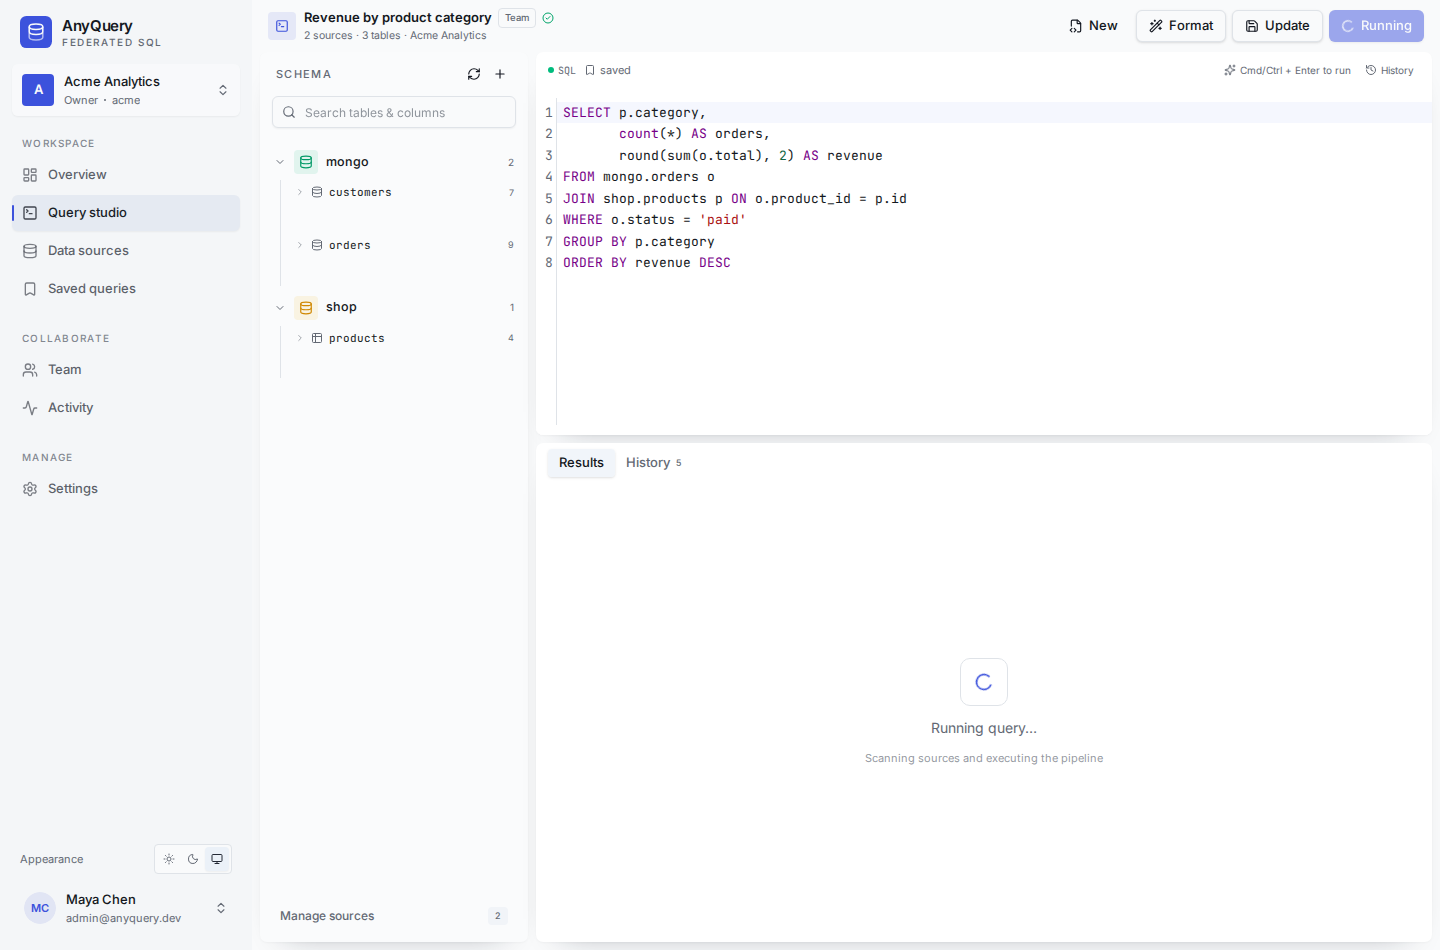
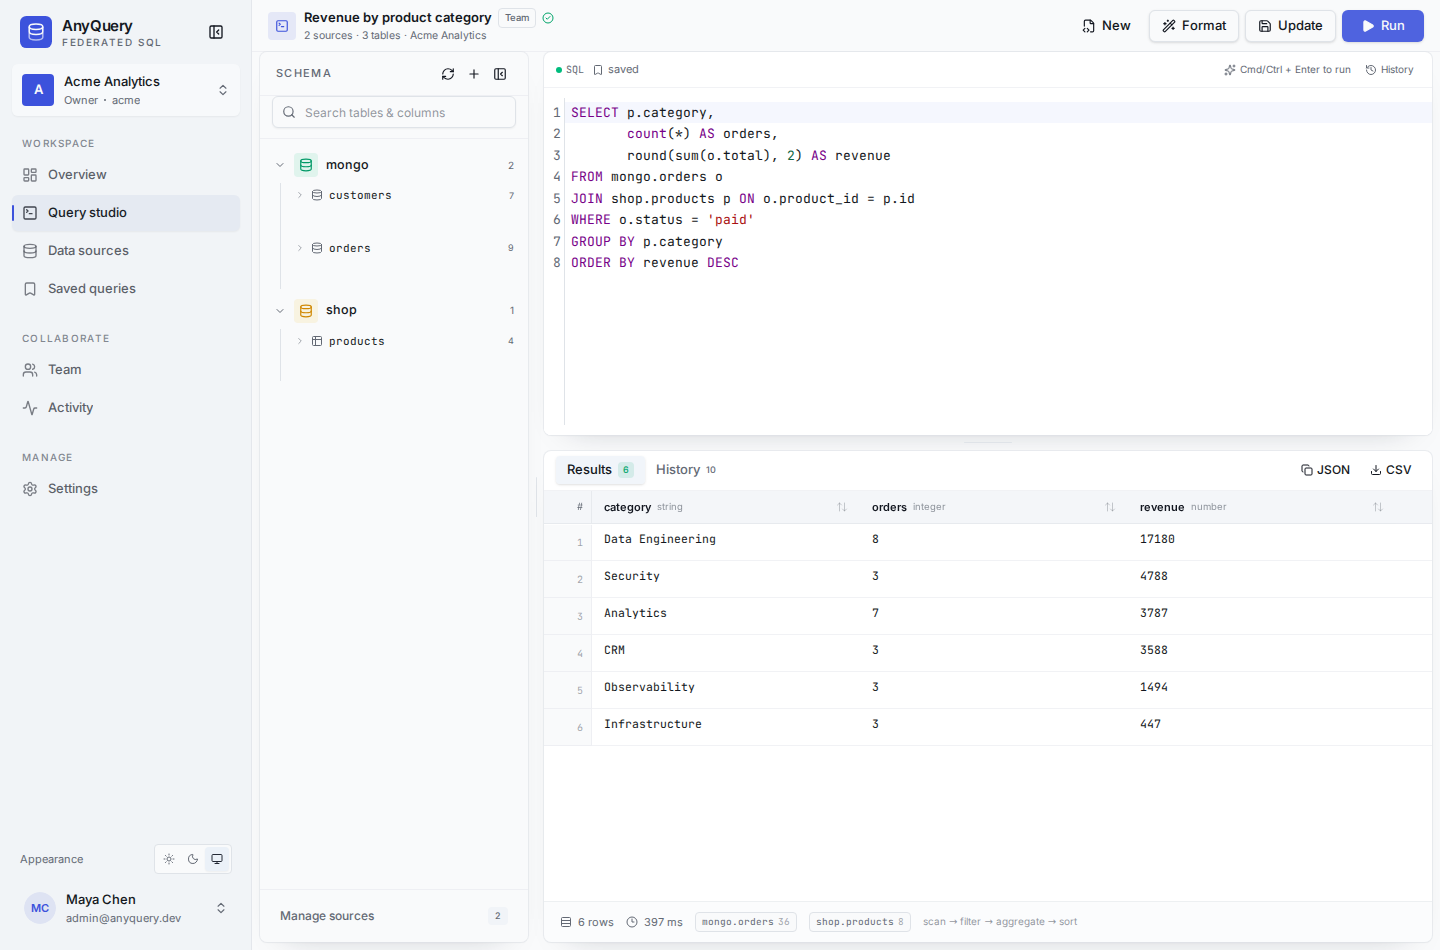
style: balance whitespace with soft structure
- Add subtle surface rings and sidebar hairline for definition without heavy borders
- Restore low-contrast list separators and panel headers for scanability
- Refine query studio dividers, table row guides and resize handles
- Tighten saved-query capacity UI into the header badge and limit warning
- Let overview columns size to content instead of stretching empty space
- Refresh README screenshots

diff --git a/frontend/src/components/query/ResultsTable.tsx b/frontend/src/components/query/ResultsTable.tsx
@@ -105,11 +105,11 @@ export function ResultsTable({
           <table className="w-full border-separate border-spacing-0 text-left text-[12px]">
             <thead className="sticky top-0 z-10">
               <tr>
-                <th className="sticky left-0 z-20 w-12 bg-muted/90 px-2 py-2 text-right font-mono text-[10px] font-normal text-muted-foreground backdrop-blur">#</th>
+                <th className="sticky left-0 z-20 w-12 border-r border-border/50 border-b border-border/60 bg-muted/80 px-2 py-2 text-right font-mono text-[10px] font-normal text-muted-foreground backdrop-blur">#</th>
                 {result.columns.map((col) => (
                   <th
                     key={col.name}
-                    className="min-w-[160px] cursor-pointer bg-muted/90 px-3 py-2 font-normal whitespace-nowrap backdrop-blur select-none hover:bg-muted"
+                    className="min-w-[160px] cursor-pointer border-b border-border/60 bg-muted/80 px-3 py-2 font-normal whitespace-nowrap backdrop-blur select-none hover:bg-muted"
                     onClick={() =>
                       setSort((s) =>
                         s?.column === col.name ? (s.dir === "asc" ? { column: col.name, dir: "desc" } : null) : { column: col.name, dir: "asc" },
@@ -127,21 +127,21 @@ export function ResultsTable({
                     </div>
                   </th>
                 ))}
-                <th className="w-9 bg-muted/90" />
+                <th className="w-9 border-b border-border/60 bg-muted/80" />
               </tr>
             </thead>
             <tbody>
               {rows.map((row, i) => (
-                <tr key={i} className="group transition-colors even:bg-muted/20 hover:bg-primary/[0.045]">
-                  <td className="sticky left-0 z-[5] bg-background px-2 py-1.5 text-right font-mono text-[10px] text-muted-foreground/60 group-even:bg-muted/20 group-hover:bg-[color-mix(in_oklch,var(--background),var(--primary)_4%)]">
+                <tr key={i} className="group transition-colors hover:bg-primary/[0.035]">
+                  <td className="sticky left-0 z-[5] border-r border-border/40 border-b border-border/45 bg-background px-2 py-1.5 text-right font-mono text-[10px] text-muted-foreground/60 group-hover:bg-[color-mix(in_oklch,var(--background),var(--primary)_4%)]">
                     {current * PAGE_SIZE + i + 1}
                   </td>
                   {result.columns.map((col) => (
-                    <td key={col.name} className="max-w-[420px] truncate px-3 py-1.5 align-top">
+                    <td key={col.name} className="max-w-[420px] truncate border-b border-border/45 px-3 py-1.5 align-top">
                       <CellValue value={row[col.name]} type={col.type} />
                     </td>
                   ))}
-                  <td className="px-1 py-1.5">
+                  <td className="border-b border-border/45 px-1 py-1.5">
                     <button
                       className="grid size-6 place-items-center rounded text-muted-foreground/40 opacity-0 transition-opacity group-hover:opacity-100 hover:bg-accent hover:text-foreground"
                       onClick={() => void navigator.clipboard.writeText(JSON.stringify(row, null, 2)).then(() => toast.success("Row copied as JSON"))}
@@ -157,7 +157,7 @@ export function ResultsTable({
         )}
       </div>
 
-      <div className="flex flex-wrap items-center justify-between gap-2 bg-muted/25 px-4 py-2.5 text-[11px] text-muted-foreground">
+      <div className="flex flex-wrap items-center justify-between gap-2 border-t border-border/50 bg-muted/25 px-4 py-2.5 text-[11px] text-muted-foreground">
         <div className="flex flex-wrap items-center gap-3">
           <span className="inline-flex items-center gap-1.5"><Rows3 className="size-3" /> {formatNumber(result.rowCount)} rows</span>
           <span className="inline-flex items-center gap-1.5"><Clock3 className="size-3" /> {formatDuration(result.stats.durationMs)}</span>

diff --git a/frontend/src/pages/Overview.tsx b/frontend/src/pages/Overview.tsx
@@ -66,9 +66,9 @@ export function OverviewPage() {
           )}
         </div>
 
-        <div className="mt-8 grid gap-5 xl:grid-cols-[1.45fr_1fr]">
+        <div className="mt-8 grid items-start gap-5 xl:grid-cols-[1.45fr_1fr]">
           <section className="surface">
-            <div className="flex items-center justify-between px-5 pt-5 pb-2">
+            <div className="flex items-center justify-between border-b border-border/55 px-5 pt-5 pb-3">
               <div>
                 <h2 className="text-sm font-semibold">Recent query activity</h2>
                 <p className="mt-0.5 text-xs text-muted-foreground">The latest runs across this workspace</p>
@@ -80,11 +80,11 @@ export function OverviewPage() {
             ) : !(overview?.recentRuns ?? []).length ? (
               <EmptyState icon={Activity} title="No queries yet" description="Run your first federated query to see it here." className="border-0 bg-transparent py-12" action={<Button asChild size="sm"><Link to={`/w/${tenant.slug}/query`}>Open query studio</Link></Button>} />
             ) : (
-              <div className="space-y-0.5 p-1.5">
+              <div className="divide-y divide-border/45">
                 {(overview?.recentRuns ?? []).map((run) => {
                   const user = memberById.get(run.userId)
                   return (
-                    <Link key={run.id} to={`/w/${tenant.slug}/query`} className="flex items-center gap-3 px-5 py-3.5 transition-colors hover:bg-muted/35">
+                    <Link key={run.id} to={`/w/${tenant.slug}/query`} className="flex items-center gap-3 px-5 py-3 transition-colors hover:bg-muted/35">
                       <div className={cn("grid size-8 shrink-0 place-items-center rounded-lg", run.status === "success" ? "bg-success/10 text-success" : "bg-destructive/10 text-destructive")}>
                         {run.status === "success" ? <CheckCircle2 className="size-4" /> : <CircleAlert className="size-4" />}
                       </div>
@@ -111,7 +111,7 @@ export function OverviewPage() {
           </section>
 
           <section className="surface">
-            <div className="flex items-center justify-between px-5 pt-5 pb-2">
+            <div className="flex items-center justify-between border-b border-border/55 px-5 pt-5 pb-3">
               <div>
                 <h2 className="text-sm font-semibold">Source health</h2>
                 <p className="mt-0.5 text-xs text-muted-foreground">{readySources.length} of {sourceList.length} connected</p>
@@ -126,9 +126,9 @@ export function OverviewPage() {
                 <Button size="sm" className="mt-3" asChild><Link to={`/w/${tenant.slug}/sources`}><Database className="size-4" /> Connect a source</Link></Button>
               </div>
             ) : (
-              <div className="space-y-0.5 p-1.5">
+              <div className="divide-y divide-border/45">
                 {sourceList.slice(0, 5).map((ds) => (
-                  <div key={ds.id} className="flex items-center gap-3 px-5 py-3.5">
+                  <div key={ds.id} className="flex items-center gap-3 px-5 py-3">
                     <SourceIcon type={ds.type} size="sm" />
                     <div className="min-w-0 flex-1">
                       <div className="flex items-center gap-1.5">

diff --git a/frontend/src/pages/Query.tsx b/frontend/src/pages/Query.tsx
@@ -290,7 +290,7 @@ export function QueryPage() {
 
   return (
     <div className="flex h-full flex-col">
-      <header className="flex h-[52px] shrink-0 items-center gap-2 bg-background px-3 md:px-4">
+      <header className="flex h-[52px] shrink-0 items-center gap-2 border-b border-border/45 bg-background px-3 md:px-4">
         <div className="flex min-w-0 items-center gap-2">
           <div className="hidden size-7 place-items-center rounded-md bg-primary/10 text-primary sm:grid">
             <SquareTerminal className="size-3.5" />
@@ -346,14 +346,14 @@ export function QueryPage() {
               onDoubleClick={() => setSchemaWidth(268)}
               className="group -mx-1 hidden w-2 cursor-col-resize touch-none items-center justify-center lg:flex"
             >
-              <div className="h-10 w-px rounded-full bg-border/70 transition-colors group-hover:bg-primary/60" />
+              <div className="h-10 w-px rounded-full bg-border transition-colors group-hover:bg-primary/60" />
             </div>
           </>
         )}
 
         <div className="flex min-w-0 flex-1 flex-col gap-1">
           <div style={{ height: `${editorRatio * 100}%` }} className="flex min-h-[150px] flex-col overflow-hidden surface">
-            <div className="flex h-9 shrink-0 items-center justify-between px-3 text-[11px] text-muted-foreground">
+            <div className="flex h-9 shrink-0 items-center justify-between border-b border-border/45 px-3 text-[11px] text-muted-foreground">
               <div className="flex items-center gap-2">
                 <span className="inline-flex items-center gap-1 font-mono text-[10px]"><span className="size-1.5 rounded-full bg-emerald-500" /> SQL</span>
                 {currentSaved && <span className="hidden items-center gap-1 sm:inline-flex"><Bookmark className="size-3" /> saved</span>}
@@ -395,12 +395,12 @@ export function QueryPage() {
             onDoubleClick={() => setEditorRatio(0.43)}
             className="group -my-0.5 flex h-3 shrink-0 cursor-row-resize touch-none items-center justify-center"
           >
-            <div className="h-px w-12 rounded-full bg-border/80 transition-colors group-hover:bg-primary/60" />
+            <div className="h-px w-12 rounded-full bg-border transition-colors group-hover:bg-primary/60" />
           </div>
 
           <div className="flex min-h-0 flex-1 flex-col overflow-hidden surface">
             <Tabs value={tab} onValueChange={setTab} className="flex min-h-0 flex-1 flex-col">
-              <div className="flex h-10 shrink-0 items-center justify-between px-3">
+              <div className="flex h-10 shrink-0 items-center justify-between border-b border-border/45 px-3">
                 <TabsList className="h-7 bg-transparent p-0">
                   <TabsTrigger value="results" className="gap-1.5 px-2.5 data-[state=active]:bg-accent/70">
                     Results

diff --git a/frontend/src/pages/DataSources.tsx b/frontend/src/pages/DataSources.tsx
@@ -147,15 +147,15 @@ export function DataSourcesPage() {
         />
 
         <div className="mt-5 grid gap-3 sm:grid-cols-3">
-          <div className="rounded-lg border bg-card px-4 py-3">
+          <div className="surface px-4 py-3">
             <div className="text-[11px] text-muted-foreground">Connected</div>
             <div className="mt-1 text-lg font-semibold">{ready} <span className="text-xs font-normal text-muted-foreground">/ {sources.length}</span></div>
           </div>
-          <div className="rounded-lg border bg-card px-4 py-3">
+          <div className="surface px-4 py-3">
             <div className="text-[11px] text-muted-foreground">Tables available</div>
             <div className="mt-1 text-lg font-semibold">{sources.reduce((n, s) => n + s.tables.length, 0)}</div>
           </div>
-          <div className="rounded-lg border bg-card px-4 py-3">
+          <div className="surface px-4 py-3">
             <div className="text-[11px] text-muted-foreground">Connector types</div>
             <div className="mt-1 text-lg font-semibold">{types?.types.length ?? "20+"} <span className="text-xs font-normal text-muted-foreground">built in</span></div>
           </div>
@@ -391,7 +391,7 @@ function DataSourceDialog({
               </div>
               <div className="grid max-h-[52vh] gap-2 overflow-y-auto pr-1 sm:grid-cols-2">
                 {filtered.map((t) => (
-                  <button key={t.type} onClick={() => chooseType(t)} className="group flex items-start gap-3 rounded-lg border bg-card p-3 text-left transition-all hover:border-primary/30 hover:shadow-sm">
+                  <button key={t.type} onClick={() => chooseType(t)} className="group flex items-start gap-3 rounded-lg border border-border/60 bg-card p-3 text-left transition-all hover:border-primary/30 hover:shadow-sm">
                     <SourceIcon type={t.type} />
                     <div className="min-w-0 flex-1">
                       <div className="flex items-center gap-1.5">
@@ -540,7 +540,7 @@ function SchemaDialog({ source, open, onOpenChange }: { source: DataSource | nul
           {source?.lastSyncedAt && <p className="mb-3 text-[11px] text-muted-foreground">Last synced {formatDateTime(source.lastSyncedAt)}</p>}
           <div className="space-y-2">
             {(source?.tables ?? []).map((table) => (
-              <details key={table.name} className="group rounded-lg border bg-card">
+              <details key={table.name} className="group rounded-lg border border-border/60 bg-card">
                 <summary className="flex cursor-pointer items-center gap-2 px-3 py-2 text-[12.5px] font-medium marker:hidden">
                   <Table2 className="size-3.5 text-muted-foreground" />
                   <span className="font-mono">{table.name}</span>

diff --git a/frontend/src/pages/SavedQueries.tsx b/frontend/src/pages/SavedQueries.tsx
@@ -73,18 +73,13 @@ export function SavedQueriesPage() {
           actions={<Button onClick={() => navigate(`/w/${tenant.slug}/query`)}><Plus className="size-4" /> New query</Button>}
         />
 
-        <div className="mt-5 flex flex-wrap items-center gap-3 rounded-lg bg-muted/25 px-3 py-2 text-[11px] text-muted-foreground">
-          <div className="h-1.5 w-40 overflow-hidden rounded-full bg-muted">
-            <div
-              className={atLimit ? "h-full rounded-full bg-warning transition-all" : "h-full rounded-full bg-primary transition-all"}
-              style={{ width: `${Math.min(100, (savedCount / savedLimit) * 100)}%` }}
-            />
+        {atLimit && (
+          <div className="mt-4 rounded-lg bg-warning/10 px-3 py-2 text-[11.5px] text-warning-foreground dark:text-warning">
+            Library full — {savedCount} of {savedLimit} slots used. Delete a saved query to create another.
           </div>
-          <span>{savedCount} of {savedLimit} query slots used</span>
-          {atLimit && <span className="text-warning-foreground dark:text-warning">Library full — delete a query to save a new one.</span>}
-        </div>
+        )}
 
-        <div className="mt-4 flex flex-col gap-3 sm:flex-row sm:items-center sm:justify-between">
+        <div className="mt-5 flex flex-col gap-3 sm:flex-row sm:items-center sm:justify-between">
           <div className="relative w-full sm:max-w-xs">
             <Search className="absolute top-1/2 left-3 size-3.5 -translate-y-1/2 text-muted-foreground" />
             <Input placeholder="Search saved queries…" value={query} onChange={(e) => setQuery(e.target.value)} className="pl-9" />

diff --git a/frontend/src/pages/Team.tsx b/frontend/src/pages/Team.tsx
@@ -111,12 +111,12 @@ export function TeamPage() {
             {isLoading ? (
               <div className="space-y-2 p-4">{Array.from({ length: 3 }).map((_, i) => <Skeleton key={i} className="h-14" />)}</div>
             ) : (
-              <div className="space-y-0.5 p-1.5">
+              <div className="divide-y divide-border/45">
                 {members.map((member) => {
                   const isSelf = member.user.id === me?.user.id
                   const canChange = canAdmin && (member.role !== "owner" || role === "owner")
                   return (
-                    <div key={member.user.id} className="flex items-center gap-3 px-5 py-3.5">
+                    <div key={member.user.id} className="flex items-center gap-3 px-5 py-3.5 transition-colors hover:bg-muted/30">
                       <Avatar className="size-9">
                         {member.user.avatarUrl && <AvatarImage src={member.user.avatarUrl} />}
                         <AvatarFallback>{initials(member.user.name, member.user.email)}</AvatarFallback>
@@ -173,7 +173,7 @@ export function TeamPage() {
                   <p className="mt-2 text-[12px] text-muted-foreground">No pending invitations</p>
                 </div>
               ) : (
-                <div className="space-y-0.5 p-1.5">
+                <div className="divide-y divide-border/45">
                   {invites.map((invite) => (
                     <div key={invite.id} className="flex items-center gap-2.5 px-4 py-3">
                       <div className="grid size-8 shrink-0 place-items-center rounded-lg bg-muted text-muted-foreground"><MailPlus className="size-3.5" /></div>

diff --git a/frontend/src/components/query/SchemaExplorer.tsx b/frontend/src/components/query/SchemaExplorer.tsx
@@ -57,7 +57,7 @@ export function SchemaExplorer({
 
   return (
     <div className="flex h-full flex-col bg-sidebar/45">
-      <div className="flex h-11 items-center justify-between px-4">
+      <div className="flex h-11 items-center justify-between border-b border-border/45 px-4">
         <div className="flex items-center gap-1.5 text-[11px] font-medium tracking-[0.12em] text-muted-foreground uppercase">Schema</div>
         <div className="flex items-center gap-0.5">
           <Tooltip>
@@ -82,7 +82,7 @@ export function SchemaExplorer({
           )}
         </div>
       </div>
-      <div className="px-3 pb-2">
+      <div className="border-b border-border/45 px-3 pb-2.5">
         <div className="relative">
           <Search className="absolute top-1/2 left-2.5 size-3.5 -translate-y-1/2 text-muted-foreground" />
           <Input placeholder="Search tables & columns" value={query} onChange={(e) => setQuery(e.target.value)} className="h-8 bg-background pl-8 text-xs" />
@@ -168,7 +168,7 @@ export function SchemaExplorer({
           })
         )}
       </div>
-      <div className="px-3 py-3">
+      <div className="border-t border-border/45 px-3 py-3">
         <Button variant="ghost" size="xs" className="w-full justify-between text-muted-foreground" onClick={onManage}>
           Manage sources <Badge variant="muted" className="text-[9px]">{sources.length}</Badge>
         </Button>

diff --git a/frontend/src/index.css b/frontend/src/index.css
@@ -69,7 +69,7 @@
   --success-foreground: oklch(0.985 0 0);
   --warning: oklch(0.72 0.16 75);
   --warning-foreground: oklch(0.25 0.04 70);
-  --sidebar: oklch(0.972 0.004 250);
+  --sidebar: oklch(0.965 0.005 250);
   --sidebar-foreground: oklch(0.3 0.02 265);
   --sidebar-primary: oklch(0.51 0.21 270);
   --sidebar-primary-foreground: oklch(0.985 0 0);
@@ -145,17 +145,23 @@
     background-color: var(--card);
     border-radius: 7px;
     box-shadow:
+      0 0 0 1px color-mix(in oklch, var(--border) 60%, transparent),
       0 1px 2px 0 rgb(16 24 40 / 0.03),
-      0 14px 32px -26px rgb(16 24 40 / 0.45);
+      0 14px 32px -26px rgb(16 24 40 / 0.35);
   }
   .dark .surface {
     box-shadow:
-      inset 0 1px 0 0 rgb(255 255 255 / 0.035),
+      0 0 0 1px rgb(255 255 255 / 0.055),
+      inset 0 1px 0 0 rgb(255 255 255 / 0.025),
       0 18px 44px -32px rgb(0 0 0 / 0.9);
   }
   .surface-quiet {
     background: color-mix(in oklch, var(--muted) 42%, var(--background));
     border-radius: 6px;
+    box-shadow: 0 0 0 1px color-mix(in oklch, var(--border) 40%, transparent);
+  }
+  .sidebar-shell {
+    box-shadow: inset -1px 0 0 color-mix(in oklch, var(--sidebar-border) 75%, transparent);
   }
   .grid-bg {
     background-image:

diff --git a/frontend/src/pages/ActivityPage.tsx b/frontend/src/pages/ActivityPage.tsx
@@ -57,7 +57,7 @@ export function ActivityPage() {
               ) : !(runs?.runs ?? []).length ? (
                 <EmptyState icon={History} title="No query runs yet" description="Run a query in the studio to start building history." className="border-0" />
               ) : (
-                <div className="space-y-0.5 p-1.5">
+                <div className="divide-y divide-border/45">
                   {(runs?.runs ?? []).map((run) => {
                     const user = memberById.get(run.userId)
                     return (
@@ -109,7 +109,7 @@ export function ActivityPage() {
                 ) : !(audit?.logs ?? []).length ? (
                   <EmptyState icon={ScrollText} title="No audit events" description="Workspace activity will appear here." className="border-0" />
                 ) : (
-                  <div className="space-y-0.5 p-1.5">
+                  <div className="divide-y divide-border/45">
                     {(audit?.logs ?? []).map((log) => (
                       <div key={log.id} className="flex items-start gap-3 px-5 py-3">
                         <div className="mt-0.5 grid size-7 shrink-0 place-items-center rounded-md bg-muted text-muted-foreground">

diff --git a/frontend/src/pages/Welcome.tsx b/frontend/src/pages/Welcome.tsx
@@ -78,7 +78,7 @@ export function WelcomePage() {
                   {busy ? "Creating…" : "Create workspace"} <ArrowRight className="size-4" />
                 </Button>
               </form>
-              <div className="mt-6 grid grid-cols-2 gap-3 pt-2">
+              <div className="mt-6 grid grid-cols-2 gap-3 border-t border-border/50 pt-5">
                 <div className="flex items-start gap-2 text-[11.5px] leading-relaxed text-muted-foreground">
                   <Users className="mt-0.5 size-3.5 shrink-0" /> Invite teammates with roles
                 </div>

diff --git a/frontend/src/components/layout/AppShell.tsx b/frontend/src/components/layout/AppShell.tsx
@@ -275,7 +275,7 @@ export function AppShell() {
 
   return (
     <div className="flex h-screen overflow-hidden bg-background">
-      <aside className={cn("hidden shrink-0 bg-sidebar transition-[width] duration-200 ease-out md:block", collapsed ? "w-[76px]" : "w-[252px]")}>{renderNav(collapsed)}</aside>
+      <aside className={cn("sidebar-shell hidden shrink-0 bg-sidebar transition-[width] duration-200 ease-out md:block", collapsed ? "w-[76px]" : "w-[252px]")}>{renderNav(collapsed)}</aside>
 
       {mobileOpen && (
         <div className="fixed inset-0 z-50 md:hidden">
